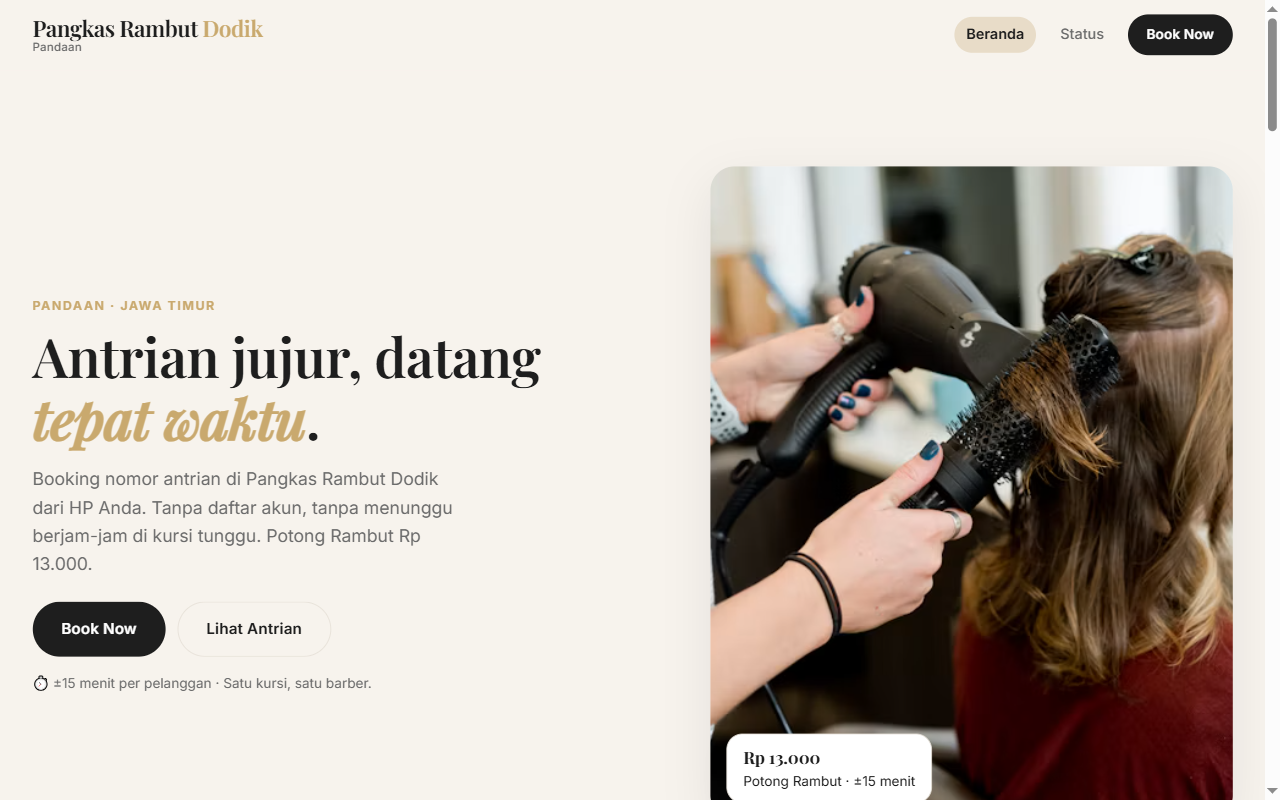
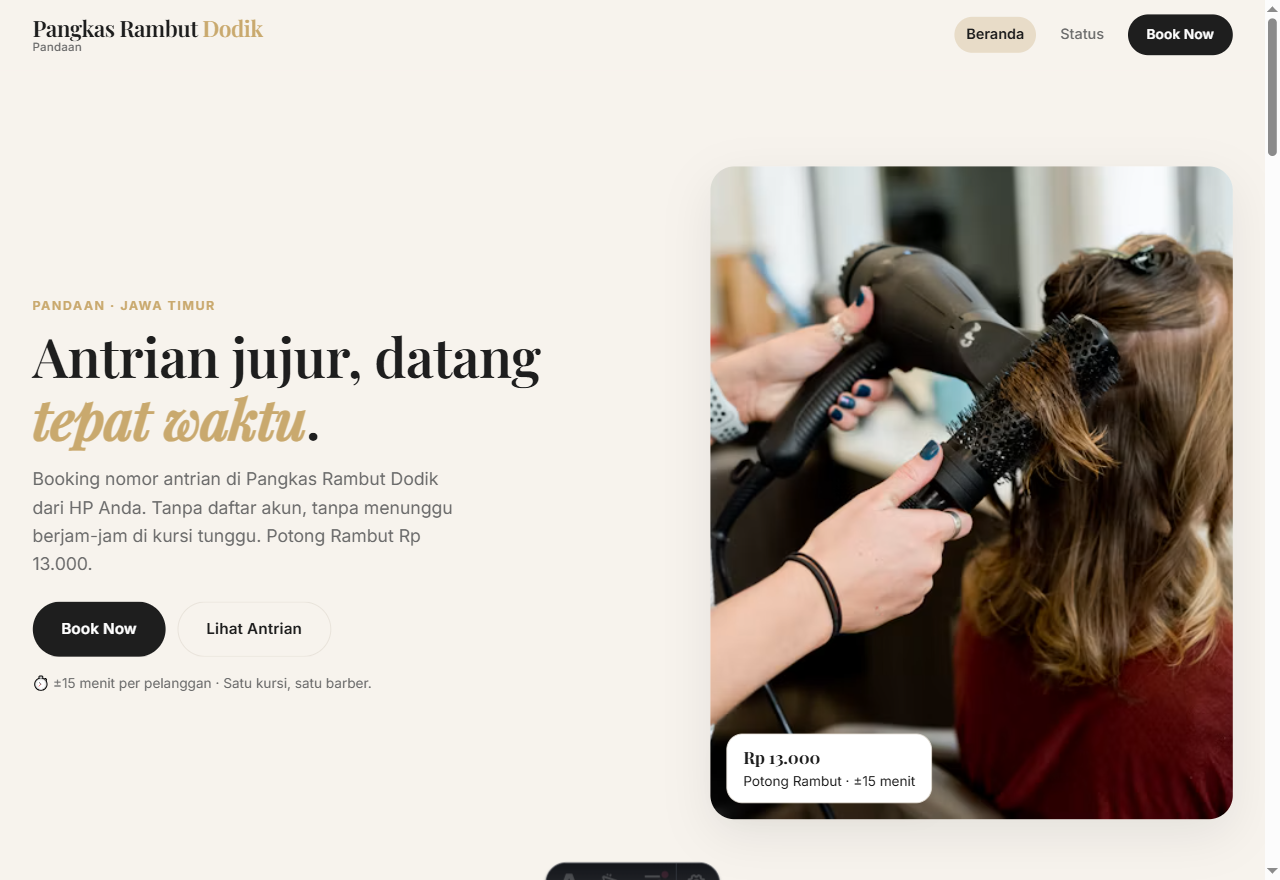
docs: README dengan galeri screenshot aplikasi (landing, booking, status, admin, mobile)

diff --git a/README.md b/README.md
@@ -1,7 +1,3 @@
-<p align="center">
-  <img src="docs/screenshots/landing.png" alt="Pangkas Rambut Dodik — landing page" width="760">
-</p>
-
 <h1 align="center">💈 Pangkas Rambut Dodik</h1>
 <p align="center"><b>Sistem booking nomor antrian online</b> untuk barbershop satu kursi di Pandaan, Pasuruan.</p>
 
@@ -16,17 +12,30 @@
 
 ---
 
-**Pangkas Rambut Dodik** adalah barbershop satu kursi di Pandaan. Pelanggan bisa **ambil nomor antrian (1–40) langsung dari HP tanpa login**, melihat estimasi giliran yang jujur, dan pemilik (Pak Dodik) mengelola antrian cukup dengan **3 tombol** + follow-up pelanggan via **WhatsApp** — semuanya berjalan di Cloudflare free tier (**Rp 0/bulan**).
+**Pangkas Rambut Dodik** adalah barbershop satu kursi di Pandaan. Pelanggan bisa **ambil nomor antrian (1–40) langsung dari HP tanpa login**, melihat estimasi giliran yang jujur, dan pemilik (Pak Dodik) mengelola antrian cukup dengan **3 tombol** + follow-up pelanggan via **WhatsApp** — semua berjalan di Cloudflare free tier (**Rp 0/bulan**).
+
+## 📸 Pratinjau
+
+| 🏠 Landing Page | 🎟 Booking (pilih nomor) |
+|:---:|:---:|
+| <img src="docs/screenshots/landing.png" width="420" alt="Landing page"> | <img src="docs/screenshots/booking.png" width="420" alt="Booking wizard"> |
+
+| 📡 Status Antrian | 🛡 Panel Admin |
+|:---:|:---:|
+| <img src="docs/screenshots/status.png" width="420" alt="Status antrian"> | <img src="docs/screenshots/admin.png" width="420" alt="Panel admin"> |
+
+<p align="center"><b>📱 Tampilan Mobile</b></p>
+<p align="center"><img src="docs/screenshots/mobile.png" width="280" alt="Tampilan mobile"></p>
 
 ## ✨ Fitur
 
 | Area | Fitur |
 |---|---|
 | **Landing** (`/`) | 10 section SEO-friendly, JSON-LD `HairSalon` + `FAQPage`, responsif, hero animation + View Transitions |
-| **Booking** (`/book`) | Wizard 3 langkah, 40 nomor × 15 menit (mulai 06:30 WIB), anti duplikat nomor & HP |
+| **Booking** (`/book`) | Wizard 3 langkah, 40 nomor × 15 menit (mulai 06:30 WIB), anti duplikat nomor & HP, proteksi **Turnstile** |
 | **Status** (`/status`) | Antrian live (polling 20 dtk), cek via HP, batal booking |
-| **Admin** (`/admin`) | Login HMAC, Panggil/Lewati/Reset + follow-up WhatsApp `wa.me` (normalisasi nomor + template per status) |
-| **Backend** | Cloudflare Workers + D1 (SQLite), 11 endpoint API, in-memory fallback untuk dev lokal |
+| **Admin** (`/admin`) | Login HMAC (rate-limit 5x/menit), Panggil/Lewati/Reset + follow-up WhatsApp `wa.me` |
+| **Backend** | Cloudflare Workers + D1 (SQLite), 11 endpoint API, auto-create tabel saat cold start |
 
 ## 🧱 Tech Stack
 
@@ -35,8 +44,9 @@
 | Frontend | Astro 7 + React 19 (islands) |
 | Styling | CSS custom design tokens (tanpa framework) |
 | Runtime | Cloudflare Workers (`@astrojs/cloudflare`) |
-| Database | Cloudflare D1 (SQLite) + migrasi |
+| Database | Cloudflare D1 (SQLite) + migrasi otomatis |
 | Auth | HMAC HttpOnly cookie |
+| Anti-spam | Cloudflare Turnstile |
 | CI/CD | GitHub Actions + `cloudflare/wrangler-action` |
 
 ## 🚀 Quick Start (lokal)
@@ -56,26 +66,13 @@ npm run check:data # validasi kelengkapan data klien
 
 ## ⚡ One-Click Deploy ke Cloudflare
 
-Ada **dua cara**. Metode 1 (GitHub Actions) paling disarankan karena otomatis menangani build + migrasi D1 + deploy.
-
 ### Metode 1 — GitHub Actions (disarankan)
-
-1. **Sekali saja:** set 2 secret di repo (Settings → Secrets → Actions):
-   - `CLOUDFLARE_API_TOKEN`
-   - `CLOUDFLARE_ACCOUNT_ID`
-2. **Sekali saja:** isi `database_id` D1 di `wrangler.toml` (`npm run d1:create`) dan data klien di `src/data/site.json` sampai `npm run check:data` hijau.
-3. Setelah itu, **satu klik**:
-   - Buka tab **Actions** → workflow **"Deploy Pangkas Dodik"** → **Run workflow**, ATAU
-   - cukup `git push origin main` (deploy otomatis).
-
-> Klik badge **"Deploy · GitHub Actions"** di atas untuk langsung ke tombol Run workflow (ganti `USERNAME/REPO`).
+1. Set 2 secret di repo (Settings → Secrets → Actions): `CLOUDFLARE_API_TOKEN`, `CLOUDFLARE_ACCOUNT_ID`.
+2. Isi `database_id` D1 di `wrangler.toml` (`npm run d1:create`) + data klien di `src/data/site.json`.
+3. **Satu klik**: tab Actions → workflow **"Deploy Pangkas Dodik"** → **Run workflow** (atau cukup `git push origin main`).
 
 ### Metode 2 — Tombol "Deploy with Workers"
-
-Klik **"Deploy to Cloudflare"** di atas (ganti `USERNAME/REPO`) → Cloudflare pandu:
-connect repo GitHub → baca `wrangler.toml` otomatis → deploy Worker.
-
-> Setelah itu tetap perlu **sekali**: buat D1 (`npm run d1:create`) → isi `database_id` ke `wrangler.toml` → set secret `ADMIN_PASSWORD` & `ADMIN_SECRET` di dashboard (Workers → Settings → Variables & Secrets).
+Klik **"Deploy to Cloudflare"** di atas (ganti `USERNAME/REPO`) → connect repo GitHub → Cloudflare baca `wrangler.toml` otomatis → deploy. Setelah itu buat D1 + set secret sekali.
 
 Selengkapnya: [`DEPLOY-GITHUB.md`](DEPLOY-GITHUB.md) dan [`DEPLOY.md`](DEPLOY.md).
 
@@ -91,12 +88,12 @@ Selengkapnya: [`DEPLOY-GITHUB.md`](DEPLOY-GITHUB.md) dan [`DEPLOY.md`](DEPLOY.md
 │   │   └── api/          # queue, book, cancel, lookup, admin/*
 │   ├── components/
 │   │   ├── Header.astro / Footer.astro
-│   │   └── react/        # LiveQueue, BookingWizard, StatusPanel, AdminPanel
+│   │   └── react/        # LiveQueue, BookingWizard, StatusPanel, AdminPanel, TurnstileWidget
 │   ├── layouts/BaseLayout.astro
 │   ├── lib/
 │   │   ├── util.ts       # helper & types (shared)
 │   │   ├── api.ts        # client fetch ke /api/*
-│   │   └── server/       # db.ts (D1+memory), auth.ts (HMAC), http.ts
+│   │   └── server/       # db.ts (D1+memory), auth.ts (HMAC), turnstile.ts, ratelimit.ts, http.ts
 │   ├── data/             # site.json, faq.json (single source of truth)
 │   └── styles/global.css
 ├── migrations/0001_init.sql   # skema D1
@@ -107,10 +104,9 @@ Selengkapnya: [`DEPLOY-GITHUB.md`](DEPLOY-GITHUB.md) dan [`DEPLOY.md`](DEPLOY.md
 
 ## 🔐 Data & Secret
 
-- **Data publik** (ganti sesuai klien): `src/data/site.json` — harga, jam, alamat, nomor WA, foto, tautan Maps. Cek dengan `npm run check:data`.
-- **Secret admin** (jangan commit, set via `wrangler secret put` atau dashboard):
-  - `ADMIN_PASSWORD` — password login `/admin`.
-  - `ADMIN_SECRET` — kunci tanda tangan cookie (string acak 32+ karakter).
+- **Data publik** (ganti sesuai klien): `src/data/site.json` — harga, jam, alamat, nomor WA, foto, tautan Maps. Cek `npm run check:data`.
+- **Secret admin** (jangan commit, set via `wrangler secret put` / dashboard): `ADMIN_PASSWORD`, `ADMIN_SECRET`.
+- **Turnstile** (opsional, anti-spam): `PUBLIC_TURNSTILE_SITE_KEY` (build) + `TURNSTILE_SECRET_KEY` (secret). Tanpa ini captcha nonaktif.
 - `.dev.vars` (lokal) dan `.env*` sudah di-`.gitignore`.
 
 ## 📚 Dokumentasi
@@ -122,12 +118,11 @@ Selengkapnya: [`DEPLOY-GITHUB.md`](DEPLOY-GITHUB.md) dan [`DEPLOY.md`](DEPLOY.md
 
 ## ✅ Alur Booking (ringkas)
 
-1. Pelanggan pilih nomor (1–40) → isi nama & HP → konfirmasi.
+1. Pelanggan pilih nomor (1–40) → isi nama & HP → verifikasi Turnstile → konfirmasi.
 2. Sistem simpan booking di D1 (jam slot = `06:30 + (nomor-1) × 15 menit`).
 3. Pelanggan pantau status di `/status` (polling 20 dtk).
 4. Pak Dodik di `/admin`: **Panggil Berikutnya / Lewati / Reset**, dan kirim WhatsApp follow-up ke pelanggan.
 
 ## 🧾 Catatan
 
-- Proyek ini hasil konsultasi panjang (60 pesan) — transkrip & artefak riset ada di `.ds-fetch/`.
 - Placeholder yang **wajib diisi sebelum produksi**: nomor WhatsApp, alamat lengkap, foto asli Dodik, dan `database_id` D1.
